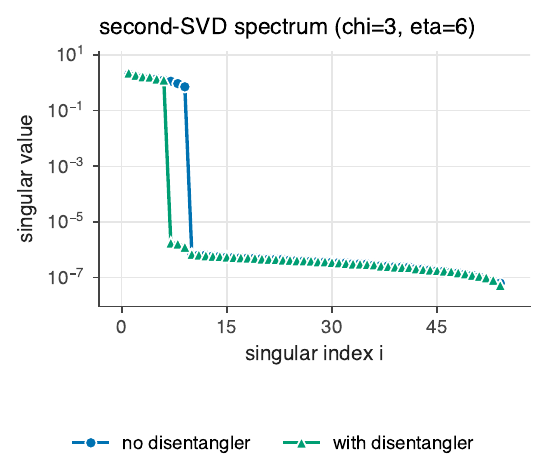
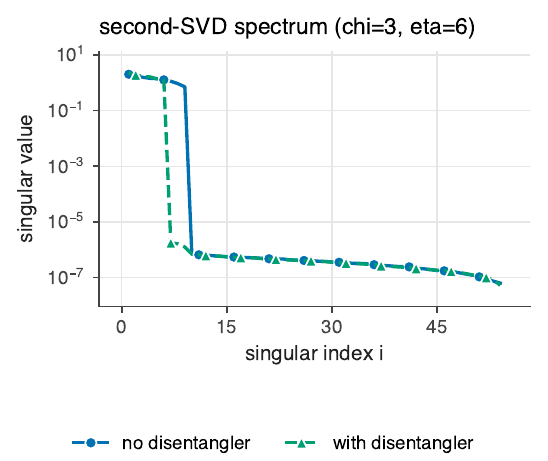
make spectrum plots legible: sparse staggered markers + distinct line styles
The exp6 (and exp5) singular-spectrum curves drew a marker at every index, so
dense overlapping curves merged into blobs and the shared noise-floor tails hid
each other. Add Series.markevery and Series.linestyle to the plotting helper;
exp6 gives each ensemble a distinct line style and ~10 staggered markers, and
exp5's spectrum panel does the same for the two curves. Re-curated the figures.

Changed region(s): [[0.3102, 0.5163, 0.9307, 0.6377], [0.2172, 0.1518, 0.3412, 0.2126], [0.2792, 0.3037, 0.3102, 0.3644]]

diff --git a/synthetic/experiments/exp6_svd_spectra.py b/synthetic/experiments/exp6_svd_spectra.py
@@ -33,11 +33,11 @@ from rand_isopeps.tn_shapes import MosesDims
 
 # ensemble -> (color, marker)
 _STYLE = {
-    "ring": ("#0072b2", "o"),
-    "noisy_ring": ("#009e73", "^"),
-    "gaussian": ("#d55e00", "s"),
-    "powerlaw": ("#cc79a7", "D"),
-    "expdecay": ("#e69f00", "v"),
+    "ring": ("#0072b2", "o", "-"),
+    "noisy_ring": ("#009e73", "^", "--"),
+    "gaussian": ("#d55e00", "s", "-."),
+    "powerlaw": ("#cc79a7", "D", ":"),
+    "expdecay": ("#e69f00", "v", (0, (3, 1, 1, 1))),
 }
 
 
@@ -56,13 +56,18 @@ def _spectra(dims: MosesDims, ensemble: str, args: argparse.Namespace, offset: i
     return s1 / s1[0], s2 / s2[0]
 
 
-def _series(name: str, spectrum: np.ndarray) -> Series:
-    color, marker = _STYLE.get(name, ("#999999", "o"))
+def _series(name: str, spectrum: np.ndarray, offset: int) -> Series:
+    color, marker, linestyle = _STYLE.get(name, ("#999999", "o", "-"))
     idx = np.arange(1, spectrum.shape[0] + 1)
+    # sparse, staggered markers (~10 per curve) so dense overlapping spectra stay
+    # legible instead of merging into blobs; distinct line styles disambiguate the
+    # flat noise-floor tails where every ensemble overlaps.
+    step = max(1, spectrum.shape[0] // 10)
     return Series(
         label=name.replace("_", " "),
         x=[float(i) for i in idx], y=[float(v) for v in spectrum],
-        color=color, marker=marker,
+        color=color, marker=marker, linestyle=linestyle,
+        markevery=(offset % step, step),
     )
 
 
@@ -72,8 +77,8 @@ def run(args: argparse.Namespace) -> tuple[str, str]:
     first_series, second_series = [], []
     for offset, ensemble in enumerate(args.ensembles):
         s1, s2 = _spectra(dims, ensemble, args, offset)
-        first_series.append(_series(ensemble, s1))
-        second_series.append(_series(ensemble, s2))
+        first_series.append(_series(ensemble, s1, offset))
+        second_series.append(_series(ensemble, s2, offset))
         for cut, spectrum in (("first", s1), ("second", s2)):
             for i, val in enumerate(spectrum, start=1):
                 rows.append({**dims.as_dict(), "ensemble": ensemble, "cut": cut, "index": i, "sigma_norm": float(val)})

diff --git a/synthetic/experiments/exp5_disentangler_ablation.py b/synthetic/experiments/exp5_disentangler_ablation.py
@@ -125,17 +125,21 @@ def make_spectrum_plot(args: argparse.Namespace, fig_path: str) -> None:
     no_d = run_method("A_two_svd", b, dims, rng=rng)
     with_d = run_method("B_disentangle_riem", b, dims)
 
-    def _series(label, spectrum, color, marker):
+    def _series(label, spectrum, color, marker, linestyle, offset):
         s = np.asarray(spectrum, dtype=float)
         idx = np.arange(1, s.shape[0] + 1)
-        return Series(label=label, x=[float(i) for i in idx], y=[float(v) for v in s], color=color, marker=marker)
+        step = max(1, s.shape[0] // 10)  # sparse, staggered markers so the curves stay legible
+        return Series(
+            label=label, x=[float(i) for i in idx], y=[float(v) for v in s],
+            color=color, marker=marker, linestyle=linestyle, markevery=(offset % step, step),
+        )
 
     panel = Panel(
         title=f"second-SVD spectrum (chi={args.chi}, eta={eta})",
         xlabel="singular index i", ylabel="singular value", yscale="log",
         series=[
-            _series("no disentangler", no_d.spectrum_no_d, "#0072b2", "o"),
-            _series("with disentangler", with_d.spectrum_used, "#009e73", "^"),
+            _series("no disentangler", no_d.spectrum_no_d, "#0072b2", "o", "-", 0),
+            _series("with disentangler", with_d.spectrum_used, "#009e73", "^", "--", 1),
         ],
     )
     write_line_panels(fig_path, [panel], width=560, height=440)

diff --git a/rand_isopeps/plotting.py b/rand_isopeps/plotting.py
@@ -97,6 +97,10 @@ class Series:
     marker: str = "o"
     ylow: list[float] | None = None  # optional lower band (e.g. 25th percentile)
     yhigh: list[float] | None = None  # optional upper band (e.g. 75th percentile)
+    linestyle: str = "-"
+    # marker subsampling for dense curves: int step or (offset, step) tuple so
+    # overlapping series can stagger their markers. None marks every point.
+    markevery: int | tuple[int, int] | None = None
 
 
 @dataclass(frozen=True)
@@ -190,6 +194,8 @@ def write_line_panels(
                 ys,
                 color=s.color,
                 marker=marker,
+                markevery=s.markevery,
+                linestyle=s.linestyle,
                 markeredgecolor="white",
                 label=s.label,
                 clip_on=False,
